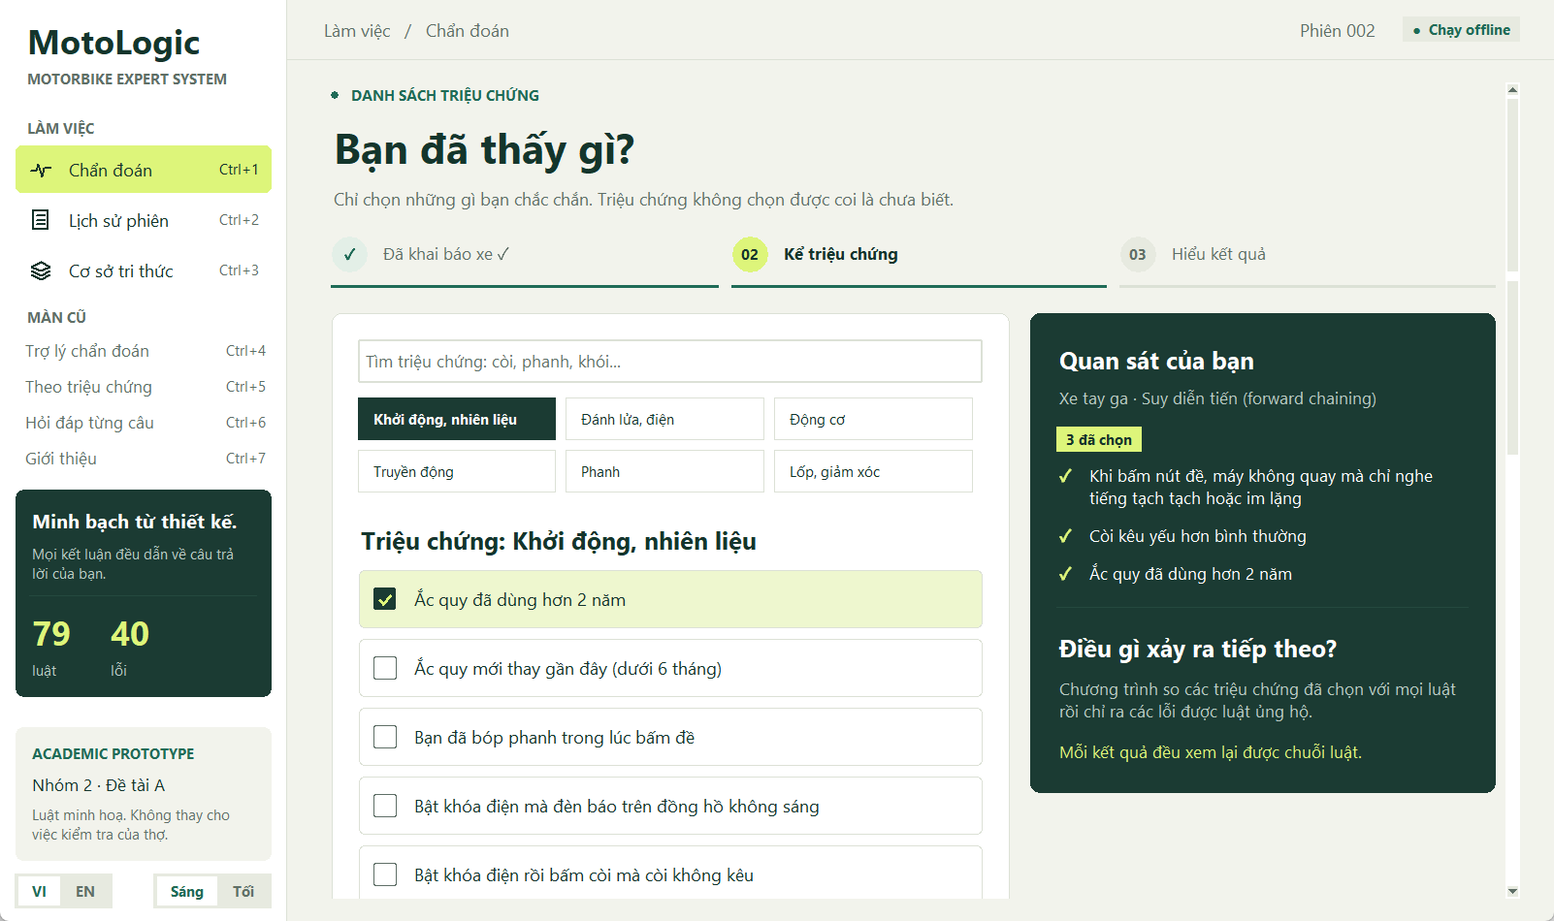
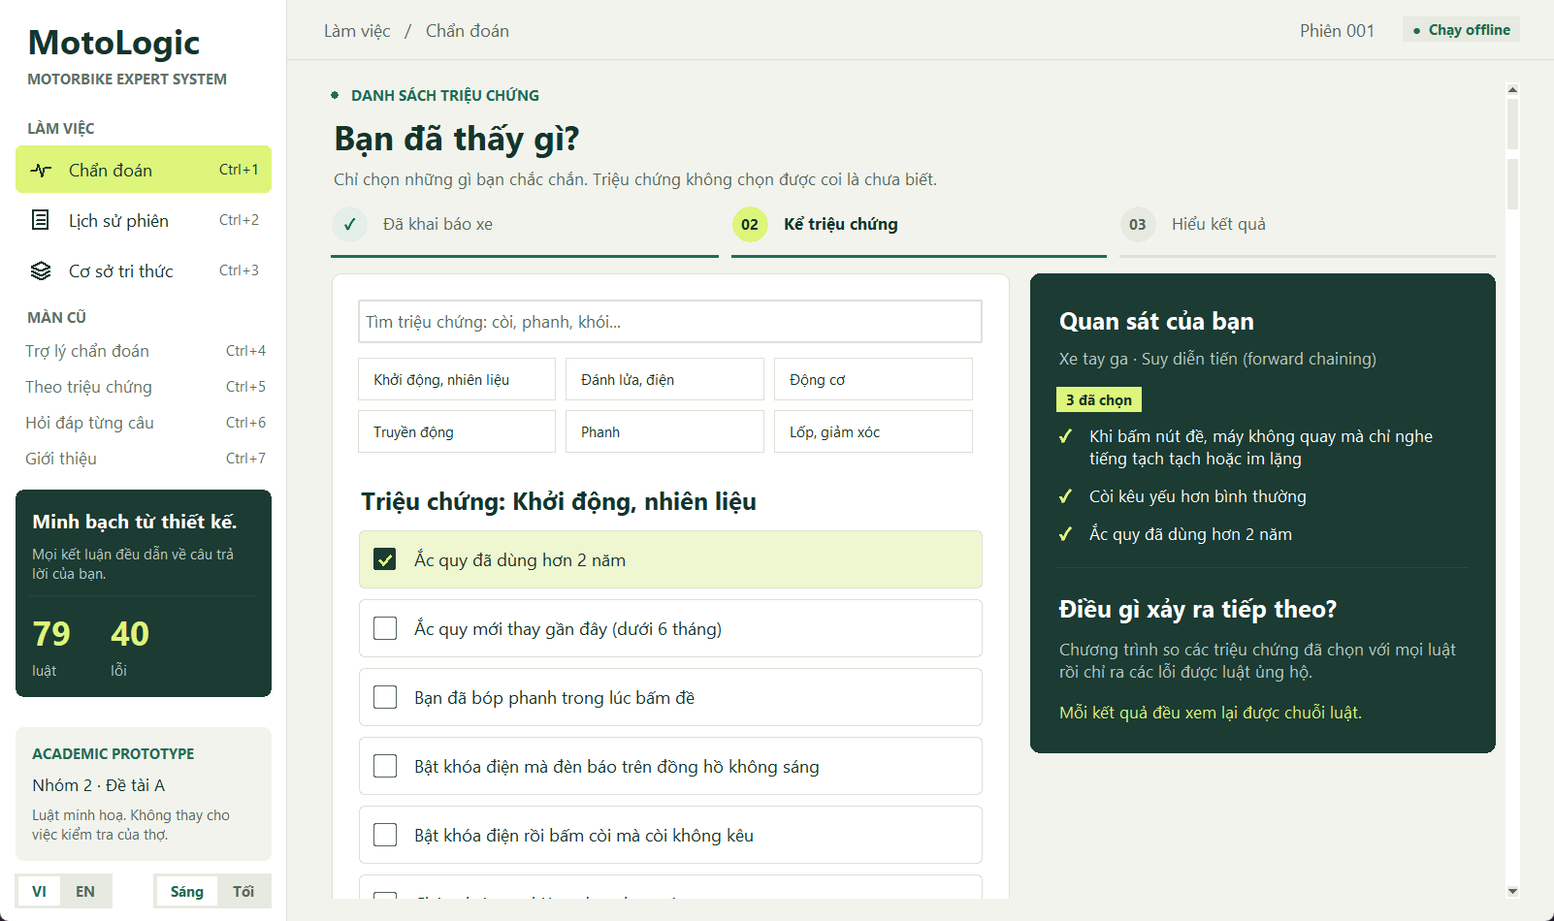
fix step 1 layout and stepper tick, trim Ch3 and Ch5, test the chat
- Stepper: drop the second tick after a finished step's name
- Step 1: one full-width card with the three methods side by side and the
  compact header, so all methods and Start show at 1600x950 without scrolling
- Methodology (Giang): about 180 words, one figure, Chapter 3 conclusion
- Discussion: 299 words, unequal comparison (K3), chat phrase-list limit
- Retake the four MotoLogic screenshots; caption says confidence gauge
- Progress: G1 bug list for Lam, G3 table of five chat conversations

Changed region(s): [[0.2185, 0.1221, 0.9988, 0.9768], [0.9988, 0.9768, 1.0, 1.0]]

diff --git a/src/gui_diagnosis.py b/src/gui_diagnosis.py
@@ -46,7 +46,7 @@ TEXT = {
         "steps_done": ["Đã khai báo xe", "Đã xem triệu chứng", "Hiểu kết quả"],
         "e1": "Cùng tìm nguyên nhân", "t1": "Trả lời rõ hơn. Bước tiếp theo đúng hơn.",
         "s1": "Cho biết bạn thấy gì. Chương trình nối các triệu chứng lại và giải thích vì sao.",
-        "bike": "Xe của bạn", "bike_sub": "Chọn loại xe và kiểu cấp nhiên liệu.",
+        "bike": "Xe của bạn",
         "scooter": "Xe tay ga", "scooter_sub": "Tự động / dây curoa CVT",
         "manual": "Xe số", "manual_sub": "Có số / truyền động xích",
         "fuel": "Nhiên liệu", "fi": "Phun xăng (FI)", "carb": "Bình xăng con", "unsure": "Không rõ",
@@ -57,7 +57,6 @@ TEXT = {
         "symptoms_note": "Suy diễn tiến (forward chaining)",
         "talk": "Kể bằng lời", "talk_sub": "Gõ một câu mô tả tình trạng xe; trợ lý hiểu và hỏi thêm.",
         "talk_note": "Trợ lý chẩn đoán",
-        "made": "Dành cho triệu chứng hằng ngày", "made_sub": "Sáu bộ phận. Một chỗ để bắt đầu.",
         "n_faults": "{n} lỗi",
         "safety": "An toàn trước tiên",
         "safety_sub": "Dựng xe ở nơi an toàn và tắt máy trước khi kiểm tra.",
@@ -130,7 +129,7 @@ TEXT = {
         "steps_done": ["Bike set up", "Symptoms reviewed", "Understand the result"],
         "e1": "Let's find the cause", "t1": "A clearer answer. A better next step.",
         "s1": "Tell us what you notice. We'll connect the symptoms and explain the reasoning.",
-        "bike": "Your motorbike", "bike_sub": "Choose the transmission and the fuel system of your bike.",
+        "bike": "Your motorbike",
         "scooter": "Scooter", "scooter_sub": "Automatic / CVT belt",
         "manual": "Manual motorbike", "manual_sub": "Gears / chain drive",
         "fuel": "Fuel system", "fi": "Fuel injection", "carb": "Carburettor", "unsure": "Not sure",
@@ -141,7 +140,6 @@ TEXT = {
         "symptoms_note": "Forward chaining",
         "talk": "Describe it in words", "talk_sub": "Type a sentence about your bike; the assistant asks the rest.",
         "talk_note": "Diagnosis assistant",
-        "made": "Made for everyday symptoms", "made_sub": "Six systems. One place to start.",
         "n_faults": "{n} faults",
         "safety": "Safety comes first", "safety_sub": "Park safely and switch off the engine before checking your bike.",
         "no_sensor": "No sensors, photos or sound recordings needed.",
@@ -454,14 +452,12 @@ class DiagnosisPage(Page):
 
     # --- step 1 ---
     def render_setup(self, page) -> None:
-        t, kb, dx = self.t, self.app.kb, self.dx
-        self.header(page, t["e1"], t["t1"], t["s1"], 1)
-        left, right = self.columns(page)
-        card = RoundCard(left)
+        t, dx = self.t, self.dx
+        self.header(page, t["e1"], t["t1"], t["s1"], 1, compact=True)
+        card = RoundCard(page)  # full width: the 3 methods sit side by side and Start shows without scrolling
         card.pack(fill="x")
         b = card.body
-        label(b, t["bike"], "h2").pack(anchor="w")
-        label(b, t["bike_sub"], "lead", "muted").pack(anchor="w", pady=(px(2), px(12)))
+        label(b, t["bike"], "h2").pack(anchor="w", pady=(0, px(12)))
         kinds = tk.Frame(b, bg=C["surface"])
         kinds.pack(fill="x")
         for i, k in enumerate(("scooter", "manual")):
@@ -470,36 +466,22 @@ class DiagnosisPage(Page):
                        icon_name=k).grid(row=0, column=i, sticky="we", padx=(0 if i == 0 else px(10), 0))
         fuel = tk.Frame(b, bg=C["surface"])
         fuel.pack(fill="x", pady=(px(12), 0))
-        label(fuel, t["fuel"], "small_bold", "muted").pack(side="left", padx=(0, px(10)))
+        fuel.columnconfigure(2, weight=1)
+        label(fuel, t["fuel"], "small_bold", "muted").grid(row=0, column=0, padx=(0, px(10)))
         Segmented(fuel, [("fi", t["fi"]), ("carb", t["carb"]), ("", t["unsure"])], dx["fuel"],
-                  lambda v: self.dx.update(fuel=v)).pack(side="left")
-        label(b, t["how"], "h2").pack(anchor="w", pady=(px(22), px(10)))
-        for m in METHODS:
-            ChoiceCard(b, t[m], t[m + "_sub"], dx["method"] == m, lambda m=m: self.set(method=m),
-                       note=t[m + "_note"], badge=t["recommended"] if m == "guided" else "").pack(
-                fill="x", pady=(0, px(10)))
-
-        panel = RoundCard(right, fill="panel", border=None, grow=True)
-        panel.pack(fill="both", expand=True)
-        p = panel.body
-        autowrap(label(p, t["made"], "h2", "on_panel", bg="panel")).pack(fill="x")
-        label(p, t["made_sub"], "body", "panel_muted", bg="panel").pack(anchor="w", pady=(px(4), px(14)))
-        for i, (sub, n) in enumerate(subsystem_counts(kb), 1):
-            row = tk.Frame(p, bg=C["panel"])
-            row.pack(fill="x", pady=px(4))
-            label(row, f"{i:02d}", "small_bold", "lime", bg="panel", width=3).pack(side="left")
-            icon(row, SUBSYSTEM_ICONS[sub], 20, "lime", "panel").pack(side="left", padx=(0, px(10)))
-            label(row, SUBSYSTEM_NAMES[self.app.lang][sub], "lead", "on_panel", bg="panel").pack(side="left")
-            label(row, t["n_faults"].format(n=n), "small", "panel_muted", bg="panel").pack(side="right")
-        tk.Frame(p, bg=C["panel_soft"], height=1).pack(fill="x", pady=px(16))
-        safe = RoundCard(p, fill="panel_soft", border=None, radius=14, bg="panel", pad=16)
-        safe.pack(fill="x", side="bottom")
-        head = tk.Frame(safe.body, bg=C["panel_soft"])
-        head.pack(fill="x")
-        icon(head, "shield", 20, "lime", "panel_soft").pack(side="left", padx=(0, px(8)))
-        label(head, t["safety"], "heading", "on_panel", bg="panel_soft").pack(side="left")
-        autowrap(label(safe.body, t["safety_sub"], "body", "panel_muted", bg="panel_soft")).pack(
-            fill="x", pady=(px(6), 0))
+                  lambda v: self.dx.update(fuel=v)).grid(row=0, column=1)
+        safe = tk.Frame(fuel, bg=C["surface"])
+        safe.grid(row=0, column=2, sticky="e", padx=(px(24), 0))
+        icon(safe, "shield", 20, "accent").pack(side="left", padx=(0, px(8)))
+        label(safe, t["safety"] + ". " + t["safety_sub"], "small", "muted").pack(side="left")
+        label(b, t["how"], "h2").pack(anchor="w", pady=(px(18), px(10)))
+        methods = tk.Frame(b, bg=C["surface"])
+        methods.pack(fill="x")
+        for i, m in enumerate(METHODS):
+            methods.columnconfigure(i, weight=1, uniform="method")
+            ChoiceCard(methods, t[m], t[m + "_sub"], dx["method"] == m, lambda m=m: self.set(method=m),
+                       note=t[m + "_note"], badge=t["recommended"] if m == "guided" else "").grid(
+                row=0, column=i, sticky="nswe", padx=(0 if i == 0 else px(10), 0))
 
         f = self.footer(page)
         label(f, t["no_sensor"], "body", "muted", bg="bg").pack(side="left")

diff --git a/src/gui_widgets.py b/src/gui_widgets.py
@@ -381,7 +381,7 @@ class Stepper(tk.Frame):
             c.create_text(d / 2, d / 2, text="✓" if done else f"{i:02d}", font=F["small_bold"],
                           fill=C["accent"] if done else C["on_lime"] if now else C["muted"])
             c.pack(side="left")
-            label(row, text + (" ✓" if done else ""), "heading" if now else "body",
+            label(row, text, "heading" if now else "body",  # the circle already shows ✓ for a done step
                   "text" if now else "muted", bg=bg).pack(side="left", padx=(px(10), 0))
             tk.Frame(col, bg=C["accent"] if i <= current else C["border"], height=px(2)).pack(fill="x")
 

diff --git a/docs/report/methodology_giang.md b/docs/report/methodology_giang.md
@@ -1,49 +1,48 @@
 # Methodology: forward chaining, certainty factors and Wang's check (draft)
 
 Author: Kieu Bao Giang. Draft for the final report, 12/11/2026, for Lâm to merge into Chapter 3.
-Limit for this part: about 250 words and 3 figures. Section and figure numbers (3.y, 3.z) are fixed by Lâm when merging.
+Limit for this part: about 180 words and 1 figure (PhanCong_Nhom2_12-11_v3). Section and figure numbers (3.y, 3.z) are fixed by Lâm when merging.
 Numbers: knowledge base of 79 rules and 40 faults; `python src/wang.py --scenarios --random 500`.
 
 ## 3.y Forward chaining and certainty factors
 
-Forward chaining is data-driven. The symptoms the rider confirms enter working memory and an
-agenda. Every rule counts its premises not yet known to be true; when the count reaches zero the
-rule fires and its conclusion joins the agenda (PL-FC-ENTAILS? [Russell and Norvig, ch. 7]).
-Each symbol is processed once, so a diagnosis takes time linear in the size of the rules.
+Forward chaining is data-driven: confirmed symptoms enter an agenda, every rule counts its premises
+not yet proved, and a rule whose count reaches zero fires and adds its conclusion to the agenda
+(PL-FC-ENTAILS? [Russell and Norvig, ch. 7]), in time linear in the size of the rules.
 
-Faults are ranked with MYCIN-style certainty factors on positive evidence only. The premises of a
-rule take their minimum CF, the rule multiplies it by its own CF, and rules with the same
-conclusion are combined as CF1 + CF2 × (1 − CF1). CFs are computed after the rules have fired, in
-dependency order, so an intermediate fact is combined before it is used. Faults with CF ≥ 0.20
-are reported, best first (Figure 3.y.1). The MotoLogic result screen shows the top fault on a CF
-gauge, with the chain of rules that produced it (Figure 3.y.2).
+Faults are ranked with MYCIN-style certainty factors on positive evidence. A rule passes on its own
+CF times the minimum CF of its premises; rules with the same conclusion combine as
+CF1 + CF2 × (1 − CF1), in dependency order, so an intermediate fact is complete before it is used.
+Faults with CF ≥ 0.20 are reported, best first (Figure 3.y.1).
 
 ## 3.z Verification with Wang's algorithm
 
 Each rule becomes the formula (p1 ∧ … ∧ pk) → q, each "yes" answer an atom and each "no" answer a
-negated atom, and the prover decides whether "rules, answers ⇒ fault" is valid (Figure 3.z.1).
-Only the rules that can conclude the fault are included, which keeps a proof to a few sequents.
-Forward chaining is sound and complete for definite clauses, so the faults it derives (with the
-threshold set to 0) must equal the faults Wang proves; any difference reveals a bug.
+negated atom. Wang's prover decides whether "rules, answers ⇒ fault" is valid, using only the rules
+that can conclude the fault. Forward chaining is sound and complete for definite clauses, so with
+the threshold at 0 its faults must equal the faults Wang proves; they agree on all 30 scenarios and
+500 random answer sets.
 
-## 3.w Chapter conclusion
+## 3.w Chapter conclusion (for the whole of Chapter 3)
 
-One knowledge base of 79 rules feeds two inference engines that share one CF model, a
-conversational assistant and an independent proof check. The MotoLogic interface lets the rider
-choose any of the three ways to diagnose and always shows the rules behind the answer. Chapter 4
-measures how well these methods work.
+One knowledge base of 79 rules is used in three ways: backward chaining asks one question at a time
+and explains "why" and "how", forward chaining ranks faults by certainty factor and is checked by
+Wang's prover, and the assistant reads the rider's own words and chats, asking only the most
+informative questions. The MotoLogic interface offers all three and always shows the rules behind
+an answer; Chapter 4 measures how well they work.
 
-## Figures
+## Figure
 
 Figure 3.y.1: Forward chaining on scenario SE01 with every CF step: rule SF01, then SF02, SF03 and SF14 combined.
 File: `figures/fig_cf_example.png` (made by `python src/report_figures.py`).
 
-Figure 3.y.2: MotoLogic result screen for SE01: CF gauge, rule chain SF01 → SF02, SF14 and Wang's check.
-File: `figures/fig_motologic_4_result.png`.
+## MotoLogic screenshots (not counted in Chapter 3; for the interface section or Chapter 4 if Lâm needs them)
 
-Figure 3.z.1: Wang's proof that the rules and the three answers of SE01 entail "weak battery" (9 sequents).
-File: `figures/fig_wang_proof.png` (made by `python src/report_figures.py`).
+Retaken on 12/11 with `python tools/shots.py --lang=vi --mode=light --size=default` (1600×950).
 
-Other MotoLogic screens, if Lâm needs them for the interface section:
-`figures/fig_motologic_1_setup.png` (step 1), `fig_motologic_2_guided.png` (step 2, question with "why"),
-`fig_motologic_3_symptoms.png` (step 2, symptom checklist).
+- `figures/fig_motologic_1_setup.png`: step 1, vehicle and the three ways to diagnose.
+- `figures/fig_motologic_2_guided.png`: step 2, step-by-step questions on the starting and fuel system.
+- `figures/fig_motologic_3_symptoms.png`: step 2, symptom checklist with three symptoms ticked.
+- `figures/fig_motologic_4_result.png`: result for SE01: confidence gauge, rule chain SF01 → SF02, SF14 and Wang's check.
+
+`figures/fig_wang_proof.png` (Wang's proof for SE01, 9 sequents) is no longer used in Chapter 3; keep it for the slides.

diff --git a/docs/progress/kieu_bao_giang.md b/docs/progress/kieu_bao_giang.md
@@ -46,6 +46,39 @@ Cập nhật lần cuối: 12/11/2026 (nhánh `feature/motologic`). Theo lịch 
 | B. 4 ảnh MotoLogic: `docs/report/figures/fig_motologic_1_setup.png` … `_4_result.png` | Xong |
 | C. Slide và lời thoại phần Forward + Wang theo số mới, kèm kịch bản demo SE01 và BT03 (`docs/slides/`) | Xong |
 
+## Phân công tối 12/11 (PhanCong_Nhom2_12-11_v3.pdf), nhánh `feature/giang-report-fixes`
+
+| Việc | Trạng thái |
+|---|---|
+| G1. Đọc lại phần Lâm sửa trong `src/gui_diagnosis.py` (thẻ chọn bộ phận, khung chat), chạy cả 3 cách bằng `python tools/shots.py` | Xong: cả 3 cách chạy được, kết quả và Wang đúng; lỗi gửi Lâm ở dưới |
+| G2. Stepper hiện ✓ hai lần (`gui_widgets.py`); bước 1 phải cuộn mới thấy cách thứ 3 và nút Bắt đầu | Xong: bỏ ✓ thừa ở chữ; bước 1 thành một thẻ rộng, 3 cách nằm ngang, tiêu đề gọn như bước 2–3. Ảnh 1600×950 (vi, en, sáng, tối) thấy đủ 3 cách và nút Bắt đầu; test qua |
+| G3. Thử chat với phanh, lốp, giảm xóc: 5 cuộc, mỗi cuộc có câu hỏi thêm | Xong: bảng dưới |
+| G4. Ch3: `methodology_giang.md` còn khoảng 180 từ, 1 hình; viết Chapter conclusion chung cho Ch3 | Xong |
+| G5. Chụp lại 4 ảnh `fig_motologic_*.png`; đổi chú thích "CF gauge" thành "confidence gauge" | Xong |
+| G6. Ch5: `discussion.md` còn ≤300 từ; thêm câu so sánh chưa ngang bằng (số K3 của Khoa) và giới hạn của chat ở 5.3 | Xong |
+
+### G1. Lỗi gửi Lâm
+
+1. Chat: phần trăm của lỗi dẫn đầu trong câu hỏi lệch 1% so với khung bên phải (21% và 22%).
+2. Khi chat dài và cuộn xuống, khung bên phải trông trống vì nội dung nằm ở trên cùng.
+3. (G3) Câu "bóp phanh thấy mềm" không được nhận ra; danh sách cụm từ chỉ có "tay phanh mềm". "steering feels heavy" cũng không nhận ra, chỉ có "steering is heavy".
+4. (G3) Câu hỏi đầu tiên thường thuộc bộ phận khác (truyền động, đề) dù câu kể đã nói rõ là phanh hoặc lốp.
+5. (G3) Cuộc 4: lỗi đã được luật TS07 chứng minh (CF 0,85) nhưng vẫn hỏi thêm 14 câu không liên quan (xích, nước làm mát, ...) tới giới hạn 15 câu.
+
+### G3. Thử chat (Kể bằng lời) với phanh, lốp, giảm xóc
+
+Chạy bằng `chat.start` / `chat.respond` (giống khung chat). Người trả lời theo kịch bản BT: "có" nếu triệu chứng có trong kịch bản, "không" với mọi câu khác. Mỗi cuộc có một câu hỏi thêm ngay sau câu hỏi đầu tiên.
+
+| # | Gõ gì (câu kể; câu hỏi thêm) | Bot hiểu đúng không | Trả lời có hợp lý không | Lỗi cuối cùng |
+|---|---|---|---|---|
+| 1 | "phanh trước kêu ken két, má phanh nhìn mỏng lắm rồi"; "tại sao hỏi vậy?" | Đúng: đọc ra phanh kêu ken két và má phanh mỏng | Có: "tại sao" liệt kê luật TR01 của câu đang hỏi. Câu hỏi đầu (tăng ga máy rú) lạc sang truyền động | Má phanh mòn, 98%, BR02 → BR01, Wang ✓, 3 câu trả lời (BT01 đúng) |
+| 2 | "bóp phanh thấy mềm, phải bóp sâu mới ăn"; "còn khả năng nào?" | Sai: không nhận ra triệu chứng nào (chỉ có cụm "tay phanh mềm") | Một phần: "còn khả năng nào" trả lời đúng nhưng chưa có gì để xếp hạng; phải trả lời 11 câu mới tới tay phanh mềm và dầu phanh cũ | Dầu phanh cũ, 70%, BR07, Wang ✓ (BT04 đúng) |
+| 3 | "lốp sau cứ vài hôm lại xẹp"; "tại sao hỏi vậy?" | Một phần: đọc ra lốp non hơi, chưa đọc ra xì hơi nhanh | Có cho "tại sao"; nhưng hỏi 10 câu ở bộ phận khác trước khi hỏi "lốp xì hơi nhanh" và "thấy đinh" | Lốp bị thủng, 96%, TS05 → TS04, Wang ✓, 13 câu (BT08 đúng) |
+| 4 | "phuộc trước chảy dầu, phanh gấp thì đầu xe chúi xuống"; "phải làm gì?" | Đúng: dầu rỉ trên ống phuộc và phuộc mềm, chúi khi phanh | Có: "phải làm gì" trả cách xử lý và luật TS07. Nhưng sau đó vẫn hỏi 14 câu không liên quan | Phuộc trước rò dầu, 85%, TS07 (BT09 đúng) |
+| 5 | "the front tyre looks flat and the steering feels heavy"; "why?" (tiếng Anh) | Một phần: đọc ra lốp non hơi, không đọc ra tay lái nặng ("feels heavy") | Có: "why" liệt kê luật TR01; tự hỏi lại tay lái nặng ở câu thứ 6 | Lốp thiếu hơi, 85%, TS01, Wang ✓, 6 câu (BT07 đúng) |
+
+Tóm tắt: 5/5 ra đúng lỗi; câu hỏi thêm (tại sao / còn gì / phải làm gì) đều được hiểu. Câu kể chỉ được hiểu khi cách nói có trong danh sách cụm từ (cuộc 2, 3, 5). Cuộc 2, 3, 4 phải trả lời nhiều câu không liên quan.
+
 ## Kết quả hiện tại
 
 - Cơ sở tri thức: 73 triệu chứng, 9 trung gian, 40 lỗi, **79 luật**. `python src/kb.py`: 0 lỗi.

diff --git a/docs/report/discussion.md b/docs/report/discussion.md
@@ -1,42 +1,41 @@
 # Chapter 5: Discussion (draft)
 
 Author: Kieu Bao Giang. Draft for the final report, 12/11/2026, for Lâm to merge.
-Limit: about 300 words and 1 figure. Numbers: [evaluation_results.md](evaluation_results.md) (Khoa) and
-[assistant_results.md](assistant_results.md) (Lâm), knowledge base of 79 rules.
+Limit: at most 300 words and 1 figure. Numbers: [evaluation_results.md](evaluation_results.md) (Khoa),
+[assistant_results.md](assistant_results.md) (Lâm) and Khoa's re-run in [nguyen_nam_khoa.md](../progress/nguyen_nam_khoa.md)
+section 3 (K3), knowledge base of 79 rules.
 
 ## 5.1 Where the system went wrong
 
-All 30 scenarios now give the expected fault first, with both forward and backward chaining, and
-Wang's prover agreed with forward chaining on every scenario and on 500 random sets of answers.
-The errors therefore came from the knowledge base, not from the engines. The first run missed two
-cases with the same shape: a rule derived an intermediate fact, but every rule going on needed one
-more symptom that the rider did not have, so the program stopped with no fault although the cause
-was almost known (Figure 5.1.1). A fallback rule with a lower CF from each such fact to its most
-common fault (SF14, TS15, BR13 and three engine and transmission rules) fixed both cases; without
-them top-1 drops to 28/30. The more specific rules still rank first when the extra symptom is given.
+All 30 scenarios give the expected fault first with both engines, and Wang's prover agreed with
+forward chaining on every scenario and on 500 random answer sets, so the errors came from the
+knowledge base. Two cases failed the same way: an intermediate fact was derived, but every rule
+going on needed a symptom the rider did not have, so no fault was reported (Figure 5.1.1). A
+lower-CF fallback rule from each such fact to its most common fault (for example TS15) fixed both;
+without these rules top-1 drops to 28/30.
 
 ## 5.2 Fewer questions or more accuracy
 
-Backward chaining over every fault asks 39.7 questions per scenario and is right 30/30; choosing
-the part first cuts this to 9.0. The assistant reads the rider's own description and then asks only
-the most informative questions: 5.3 questions and 30/30 on the scenario descriptions, which were all
-used while writing its phrase list. On ten held-out descriptions it is right 8/10 (Vietnamese) and
-7/10 (English) with about 11 questions, because a symptom said in words the list lacks is never
-read and may never be asked. The interface therefore keeps step-by-step questions
-as the recommended method and the assistant as the fastest one.
+Backward chaining over every fault asks 39.7 questions and is right 30/30; choosing the part first
+cuts this to 9.0. The assistant asks 5.3 questions and is right 30/30 on descriptions used to write
+its phrase list, but 8/10 (Vietnamese) and 7/10 (English) with about 11 questions on ten held-out
+ones. The comparison is not equal: the assistant does not count what it reads, stops once the
+leading fault is proved and is capped at 15 questions; backward chaining that reads the same
+description still asks 36.6, but stopping at the first proved fault gives 22.2 (28/30).
+Step-by-step questions therefore stay the recommended method.
 
 ## 5.3 Limitations
 
 The rules are definite clauses, so a "no" answer cannot lower a fault's CF: in ET05 "low coolant"
-stays second (CF 0.45) although the rider says the coolant level is fine. The CFs are the authors'
-estimates, not measured on repair data, and the scenarios were written by the team rather than
-collected from workshops.
+stays second (CF 0.45) although the coolant level is fine. The chat understands only phrasings in
+its phrase list: "tay phanh mềm" (soft brake lever) is read, "bóp phanh thấy mềm" is not. The CFs
+are the authors' estimates and the scenarios were written by the team.
 
 ## 5.4 Chapter conclusion
 
 The engines are correct with respect to the rules; the remaining errors and trade-offs come from
-what the rules and the questions can express. Negative evidence and real repair cases are the next
-steps.
+what the rules and the phrase list can express. Negative evidence, a larger phrase list and real
+repair cases are the next steps.
 
 ## Figure
 

diff --git a/docs/report/README.md b/docs/report/README.md
@@ -46,8 +46,8 @@ Lưu ảnh vào `figures/`, tên `fig_<nội_dung>.png`. Biểu đồ và sơ đ
 | 3 | Cấu trúc luật và các lớp triệu chứng → trung gian → lỗi | Lâm | Chưa |
 | 3 | Màn Trợ lý chẩn đoán đang hỏi, có thanh khả năng | Lâm | Chưa |
 | 3 | Ví dụ forward chaining tính CF | Giang | Có: `fig_cf_example.png` (`python src/report_figures.py`) |
-| 3 | Màn hình MotoLogic: kết quả SE01 có đồng hồ CF và Wang | Giang | Có: `fig_motologic_4_result.png` (thêm `fig_motologic_1_setup`, `_2_guided`, `_3_symptoms`) |
-| 3 | Ví dụ cây chứng minh Wang | Giang | Có: `fig_wang_proof.png` (`python src/report_figures.py`) |
+| 3 | Màn hình MotoLogic: kết quả SE01 có đồng hồ độ tin cậy (confidence gauge) và Wang | Giang | Có, chụp lại 12/11: `fig_motologic_4_result.png` (thêm `fig_motologic_1_setup`, `_2_guided`, `_3_symptoms`); không tính vào 1 hình của phần Giang |
+| 3 | Ví dụ cây chứng minh Wang | Giang | Có nhưng bỏ khỏi Ch3 (phần Giang còn 1 hình); dùng cho slide: `fig_wang_proof.png` |
 | 3 | Luồng backward chaining hỏi từng câu | Khoa | Có: `fig_backward_flow.png` (`python src/evaluate.py --charts`) |
 | 3 | Màn hình Hỏi đáp, đang mở Why | Khoa | Có: `fig_backward_screen_why.png` (BT10, câu 8) |
 | 4 | Biểu đồ độ chính xác theo nhóm kịch bản | Khoa | Có: `fig_accuracy_by_group.png` |
